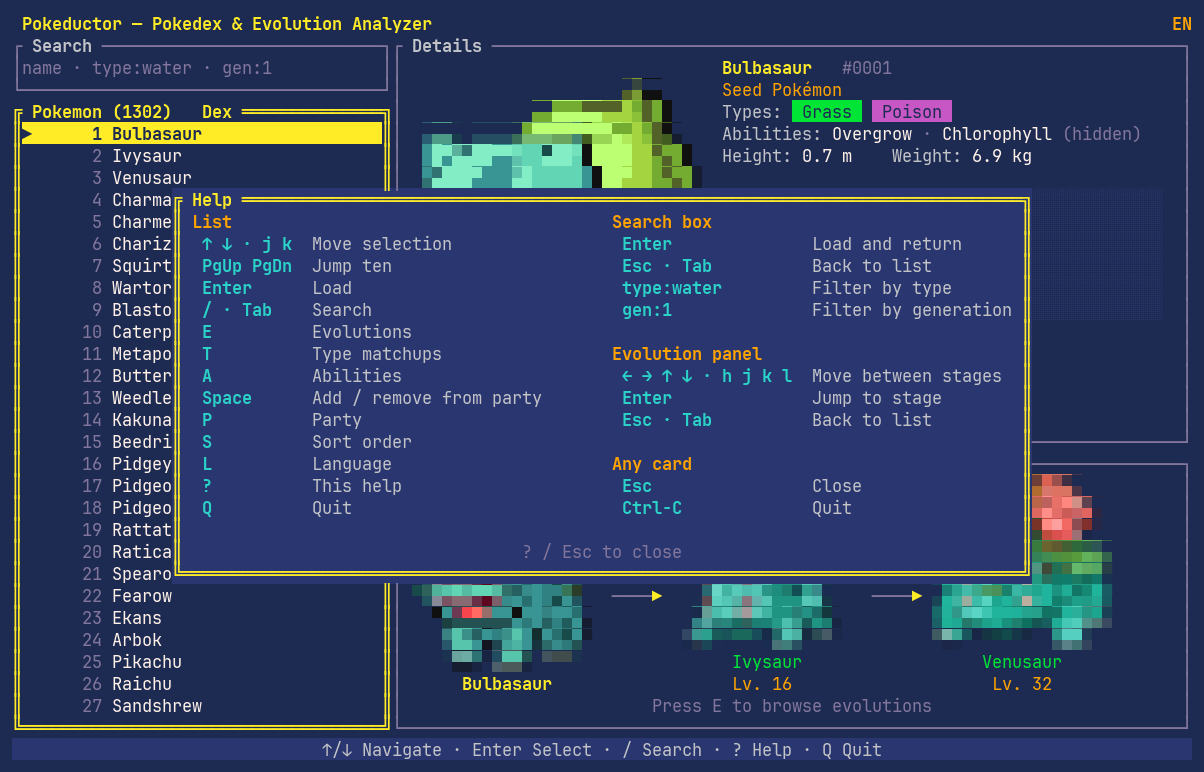
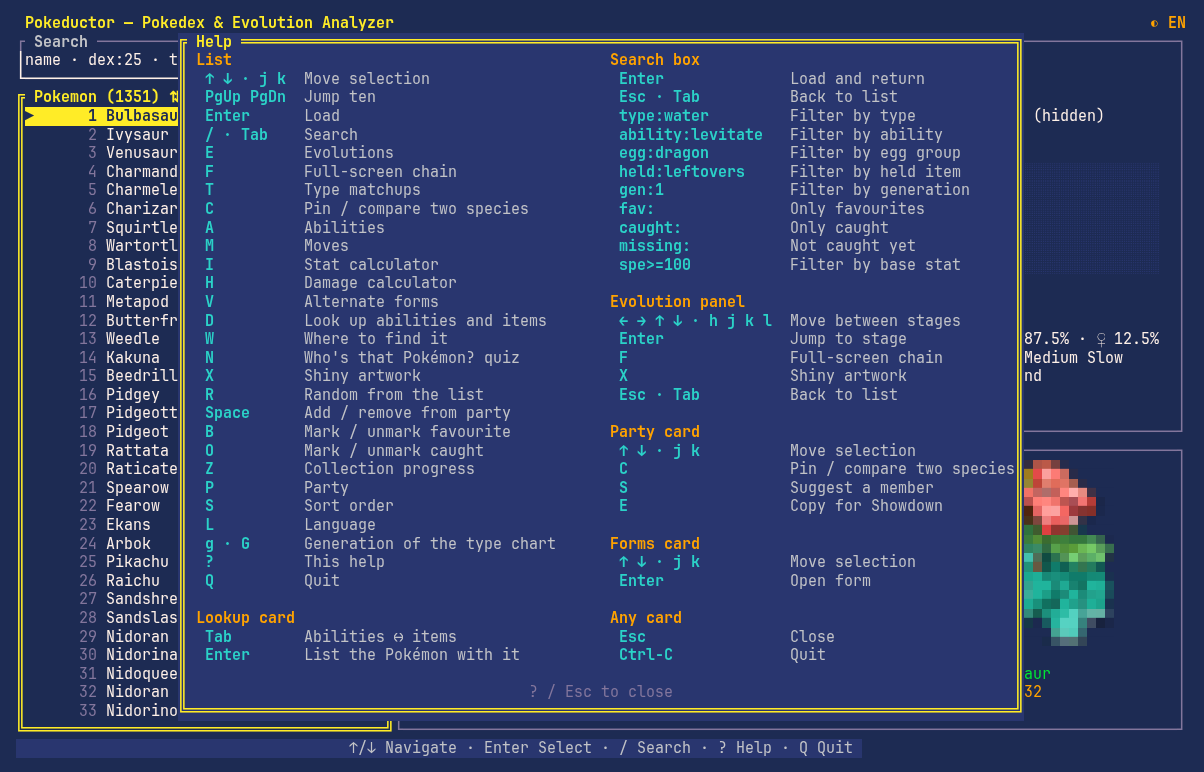
Retake the screenshots and script how they are taken
The help and party shots predated the keys and the wider cards the last
four changes added, and the collection, the suggestions and the damage
calculator had no picture at all; the damage section made do with a text
mock-up, which is now a shot of the card against the live data.

The shots were taken by hand in a terminal sized to match, which is why
they went stale: retaking one meant setting that terminal up again.
`scripts/screenshot.py` runs the release binary in a detached 130x40 tmux
session against a state directory of its own under `target/`, sends it
keys, and has headless Chromium photograph the captured pane at the size
the others are. It lays every cell out on a fixed grid rather than as
running text, since a fallback glyph a fraction wider than a cell
otherwise shifts the rest of its row, and it applies reverse video itself,
which is how the cursor row is highlighted.

diff --git a/scripts/screenshot.py b/scripts/screenshot.py
@@ -1,0 +1,132 @@
+#!/usr/bin/env python3
+"""Takes a README screenshot of the interface without a terminal to shoot.
+
+Runs the release binary in a detached 130x40 tmux session, sends it keys,
+captures the pane with its colours, lays the cells out on a fixed grid in an
+HTML page and has headless Chromium photograph it at 1204x772, the size of
+every `assets/ui-*.png`.
+
+    cargo build --release
+    scripts/screenshot.py assets/ui-help.png - -- '?'
+    scripts/screenshot.py assets/ui-party.png party.json -- p@3
+    scripts/screenshot.py out.png - gengar -- c text=/ text=garchomp Enter@4 h@8
+
+The second argument is a session file to start from (a party, a collection),
+or `-` for a fresh one; the app runs against a state directory under
+`target/shots`, never the real one. Arguments up to `--` go to pokeductor.
+After it, each word is a tmux key name, or `text=...` to type literally, with
+an optional `@seconds` to wait afterwards for a fetch to land.
+
+Needs tmux, chromium and the JetBrains Mono font. Standard library only.
+"""
+import html
+import os
+import re
+import subprocess
+import sys
+import time
+import unicodedata
+
+out, session = sys.argv[1], sys.argv[2]
+rest = sys.argv[3:]
+split = rest.index("--")
+args, keys = rest[:split], rest[split + 1:]
+root = os.path.dirname(os.path.dirname(os.path.abspath(__file__)))
+here = os.path.join(root, "target", "shots")
+state = os.path.join(here, "state")
+os.makedirs(os.path.join(state, "pokeductor"), exist_ok=True)
+path = os.path.join(state, "pokeductor", "session.json")
+if session == "-":
+    if os.path.exists(path):
+        os.remove(path)
+else:
+    open(path, "w").write(open(session).read())
+
+binary = os.path.join(root, "target", "release", "pokeductor")
+cmd = f"env XDG_STATE_HOME={state} COLORTERM=truecolor TERM=xterm-256color {binary} --no-mouse " + " ".join(args)
+tmux = ["tmux", "-L", "pdshot", "-f", "/dev/null"]
+subprocess.run(tmux + ["kill-server"], stderr=subprocess.DEVNULL)
+subprocess.run(tmux + ["new-session", "-d", "-s", "pd", "-x", "130", "-y", "40", cmd], check=True)
+time.sleep(4)
+for key in keys:
+    key, _, wait = key.partition("@")
+    if key.startswith("text="):
+        subprocess.run(tmux + ["send-keys", "-t", "pd", "-l", key[5:]], check=True)
+    else:
+        subprocess.run(tmux + ["send-keys", "-t", "pd", key], check=True)
+    time.sleep(float(wait or 0.6))
+ansi = subprocess.run(tmux + ["capture-pane", "-t", "pd", "-e", "-p"], check=True, capture_output=True).stdout.decode()
+subprocess.run(tmux + ["kill-server"])
+
+BASE, TEXT = "#1d2b53", "#fff1e8"
+BASIC = ["#000000", "#cd0000", "#00cd00", "#cdcd00", "#0000ee", "#cd00cd", "#00cdcd", "#e5e5e5",
+         "#7f7f7f", "#ff0000", "#00ff00", "#ffff00", "#5c5cff", "#ff00ff", "#00ffff", "#ffffff"]
+def c256(n):
+    if n < 16: return BASIC[n]
+    if n >= 232:
+        v = 8 + (n - 232) * 10; return f"#{v:02x}{v:02x}{v:02x}"
+    n -= 16; f = lambda v: 0 if v == 0 else 55 + v * 40
+    return f"#{f(n // 36):02x}{f(n // 6 % 6):02x}{f(n % 6):02x}"
+
+st = dict(fg=None, bg=None, bold=False, rev=False, dim=False, ital=False, und=False)
+def sgr(params):
+    p = [int(x) if x else 0 for x in params.split(";")] if params else [0]
+    i = 0
+    while i < len(p):
+        n = p[i]
+        if n == 0: st.update(fg=None, bg=None, bold=False, rev=False, dim=False, ital=False, und=False)
+        elif n == 1: st["bold"] = True
+        elif n == 2: st["dim"] = True
+        elif n == 3: st["ital"] = True
+        elif n == 4: st["und"] = True
+        elif n == 7: st["rev"] = True
+        elif n == 22: st["bold"] = st["dim"] = False
+        elif n == 23: st["ital"] = False
+        elif n == 24: st["und"] = False
+        elif n == 27: st["rev"] = False
+        elif 30 <= n <= 37: st["fg"] = BASIC[n - 30]
+        elif 90 <= n <= 97: st["fg"] = BASIC[n - 82]
+        elif 40 <= n <= 47: st["bg"] = BASIC[n - 40]
+        elif 100 <= n <= 107: st["bg"] = BASIC[n - 92]
+        elif n == 39: st["fg"] = None
+        elif n == 49: st["bg"] = None
+        elif n in (38, 48):
+            key = "fg" if n == 38 else "bg"
+            if p[i + 1] == 2:
+                st[key] = "#%02x%02x%02x" % tuple(p[i + 2:i + 5]); i += 4
+            else:
+                st[key] = c256(p[i + 2]); i += 2
+        i += 1
+
+body = []
+for line in ansi.rstrip("\n").split("\n"):
+    row, pos = [], 0
+    st.update(fg=None, bg=None, bold=False, rev=False, dim=False, ital=False, und=False)
+    for m in re.finditer(r"\x1b\[([0-9;]*)m|\x1b\[[0-9;?]*[A-Za-z]|\x1b[()][A-Z0-9]|[\x0e\x0f]", line):
+        text = line[pos:m.start()]
+        if text: row.append((dict(st), text))
+        if m.group(1) is not None: sgr(m.group(1))
+        pos = m.end()
+    if line[pos:]: row.append((dict(st), line[pos:]))
+    spans = []
+    for s, text in row:
+        fg, bg = s["fg"] or TEXT, s["bg"] or BASE
+        if s["rev"]: fg, bg = bg, fg
+        css = f"color:{fg};background:{bg};"
+        if s["bold"]: css += "font-weight:bold;"
+        if s["ital"]: css += "font-style:italic;"
+        for ch in text:
+            wide = unicodedata.east_asian_width(ch) in ("W", "F")
+            w = 18 if wide else 9
+            spans.append(f'<span style="{css}width:{w}px;">{html.escape(ch)}</span>')
+    body.append("".join(spans))
+page = f"""<!doctype html><meta charset="utf-8"><style>
+html,body{{margin:0;background:{BASE};}}
+pre{{margin:0;padding:14px 16px;background:{BASE};color:{TEXT};font-family:'JetBrainsMono Nerd Font Mono','JetBrains Mono',monospace;font-size:15px;line-height:1.24;}}
+span{{display:inline-block;height:1.24em;vertical-align:top;overflow:hidden;white-space:pre;}}
+</style><pre>{chr(10).join(body)}</pre>"""
+page_path = os.path.join(here, "page.html")
+open(page_path, "w").write(page)
+subprocess.run(["chromium", "--headless", "--disable-gpu", "--hide-scrollbars", "--window-size=1204,772",
+                f"--screenshot={os.path.abspath(out)}", page_path], check=True, stderr=subprocess.DEVNULL, stdout=subprocess.DEVNULL)
+print(out, len(ansi))

diff --git a/README.md b/README.md
@@ -184,6 +184,8 @@ you, and `missing: type:dragon` the Dragons you have yet to find. Under either
 filter `O` takes the entry out of the list and leaves the cursor on the next
 one, so `missing:` works as a checklist to run down.
 
+<img src="https://raw.githubusercontent.com/Huseynteymurzade28/pokeductor/main/assets/ui-collection.png" alt="The collection card over a list of ticked Johto species: a progress bar per generation, Generation I complete in green, and the whole Pokédex at 24%" width="900">
+
 `Z` opens the collection card: one bar per generation, with the count and the
 percentage, and the whole Pokédex under them. A finished generation turns
 green. `Enter` on a row closes the card on `gen:N missing:`, or on
@@ -359,20 +361,7 @@ what that comes to. Pin the target with `C`, move to the attacker and press
 hardest hit first, each with the range it takes off as a percentage of the
 target's HP and how many hits a knock-out needs.
 
-```
- Garchomp  Dragon   Ground   ▶  Gengar  Ghost   Poison
- [A] 252 Atk/SpA   [D] 0 HP · 0 Def/SpD
- [L] Level 50   [+ -] Boost +0   [C] Critical hit ○
- [I] Item —   [W] Weather —
-
-  Move                Type       Cat.   Pow  Damage
-▶ Earthquake          GROUND     Phys   100  191.1–226.6%       OHKO
-  Outrage             DRAGON     Phys   120  114.0–135.5%       OHKO
-  Dragon Rush         DRAGON     Phys   100  95.5–113.3%      1–2HKO
-  Dragon Claw         DRAGON     Phys    80  76.2–91.1%         2HKO
-
- 258–306 / 135 HP · ×2
-```
+<img src="https://raw.githubusercontent.com/Huseynteymurzade28/pokeductor/main/assets/ui-damage.png" alt="The damage card for Garchomp attacking Gengar: Earthquake first at 191.1 to 226.6 percent and a one-hit knock-out, the rest of the learnset below it in falling order of damage" width="900">
 
 `1–2HKO` is a knock-out the roll decides: one hit at the top of the range, two
 at the bottom. The line under the list gives the highlighted hit in hit points.
@@ -596,8 +585,10 @@ order. See [Session state](#session-state).
 #### Who to add
 
 The card says what is wrong with a team; `S` on it answers who would fix that.
-It opens a second card over the first with the best few candidates and, for
+It opens a second card in its place with the best few candidates and, for
 the one under the cursor, the reasons it is there:
+
+<img src="https://raw.githubusercontent.com/Huseynteymurzade28/pokeductor/main/assets/ui-suggest.png" alt="Suggestions for a party of Rotom, Charizard, Gyarados and Snorlax: Tinkaton first, with the types it resists, the types it hits hard and the Ground weakness it would share" width="900">
 
 | Reason | What it means |
 |---|---|
@@ -1329,6 +1320,11 @@ manifest changes.
 Everything under `typechart.rs`, `team.rs`, `query.rs` and `models.rs` is pure
 and unit-tested; new logic belongs there rather than in `app.rs` or `ui.rs`
 wherever it can be expressed without a terminal or a network.
+
+The screenshots under `assets/` are taken by `scripts/screenshot.py`, which
+runs the release binary in a detached tmux session, sends it keys and has
+headless Chromium photograph the captured pane, so a shot can be retaken
+after a change without a terminal set up to match. Its header has the usage.
 
 ### Releasing
 
